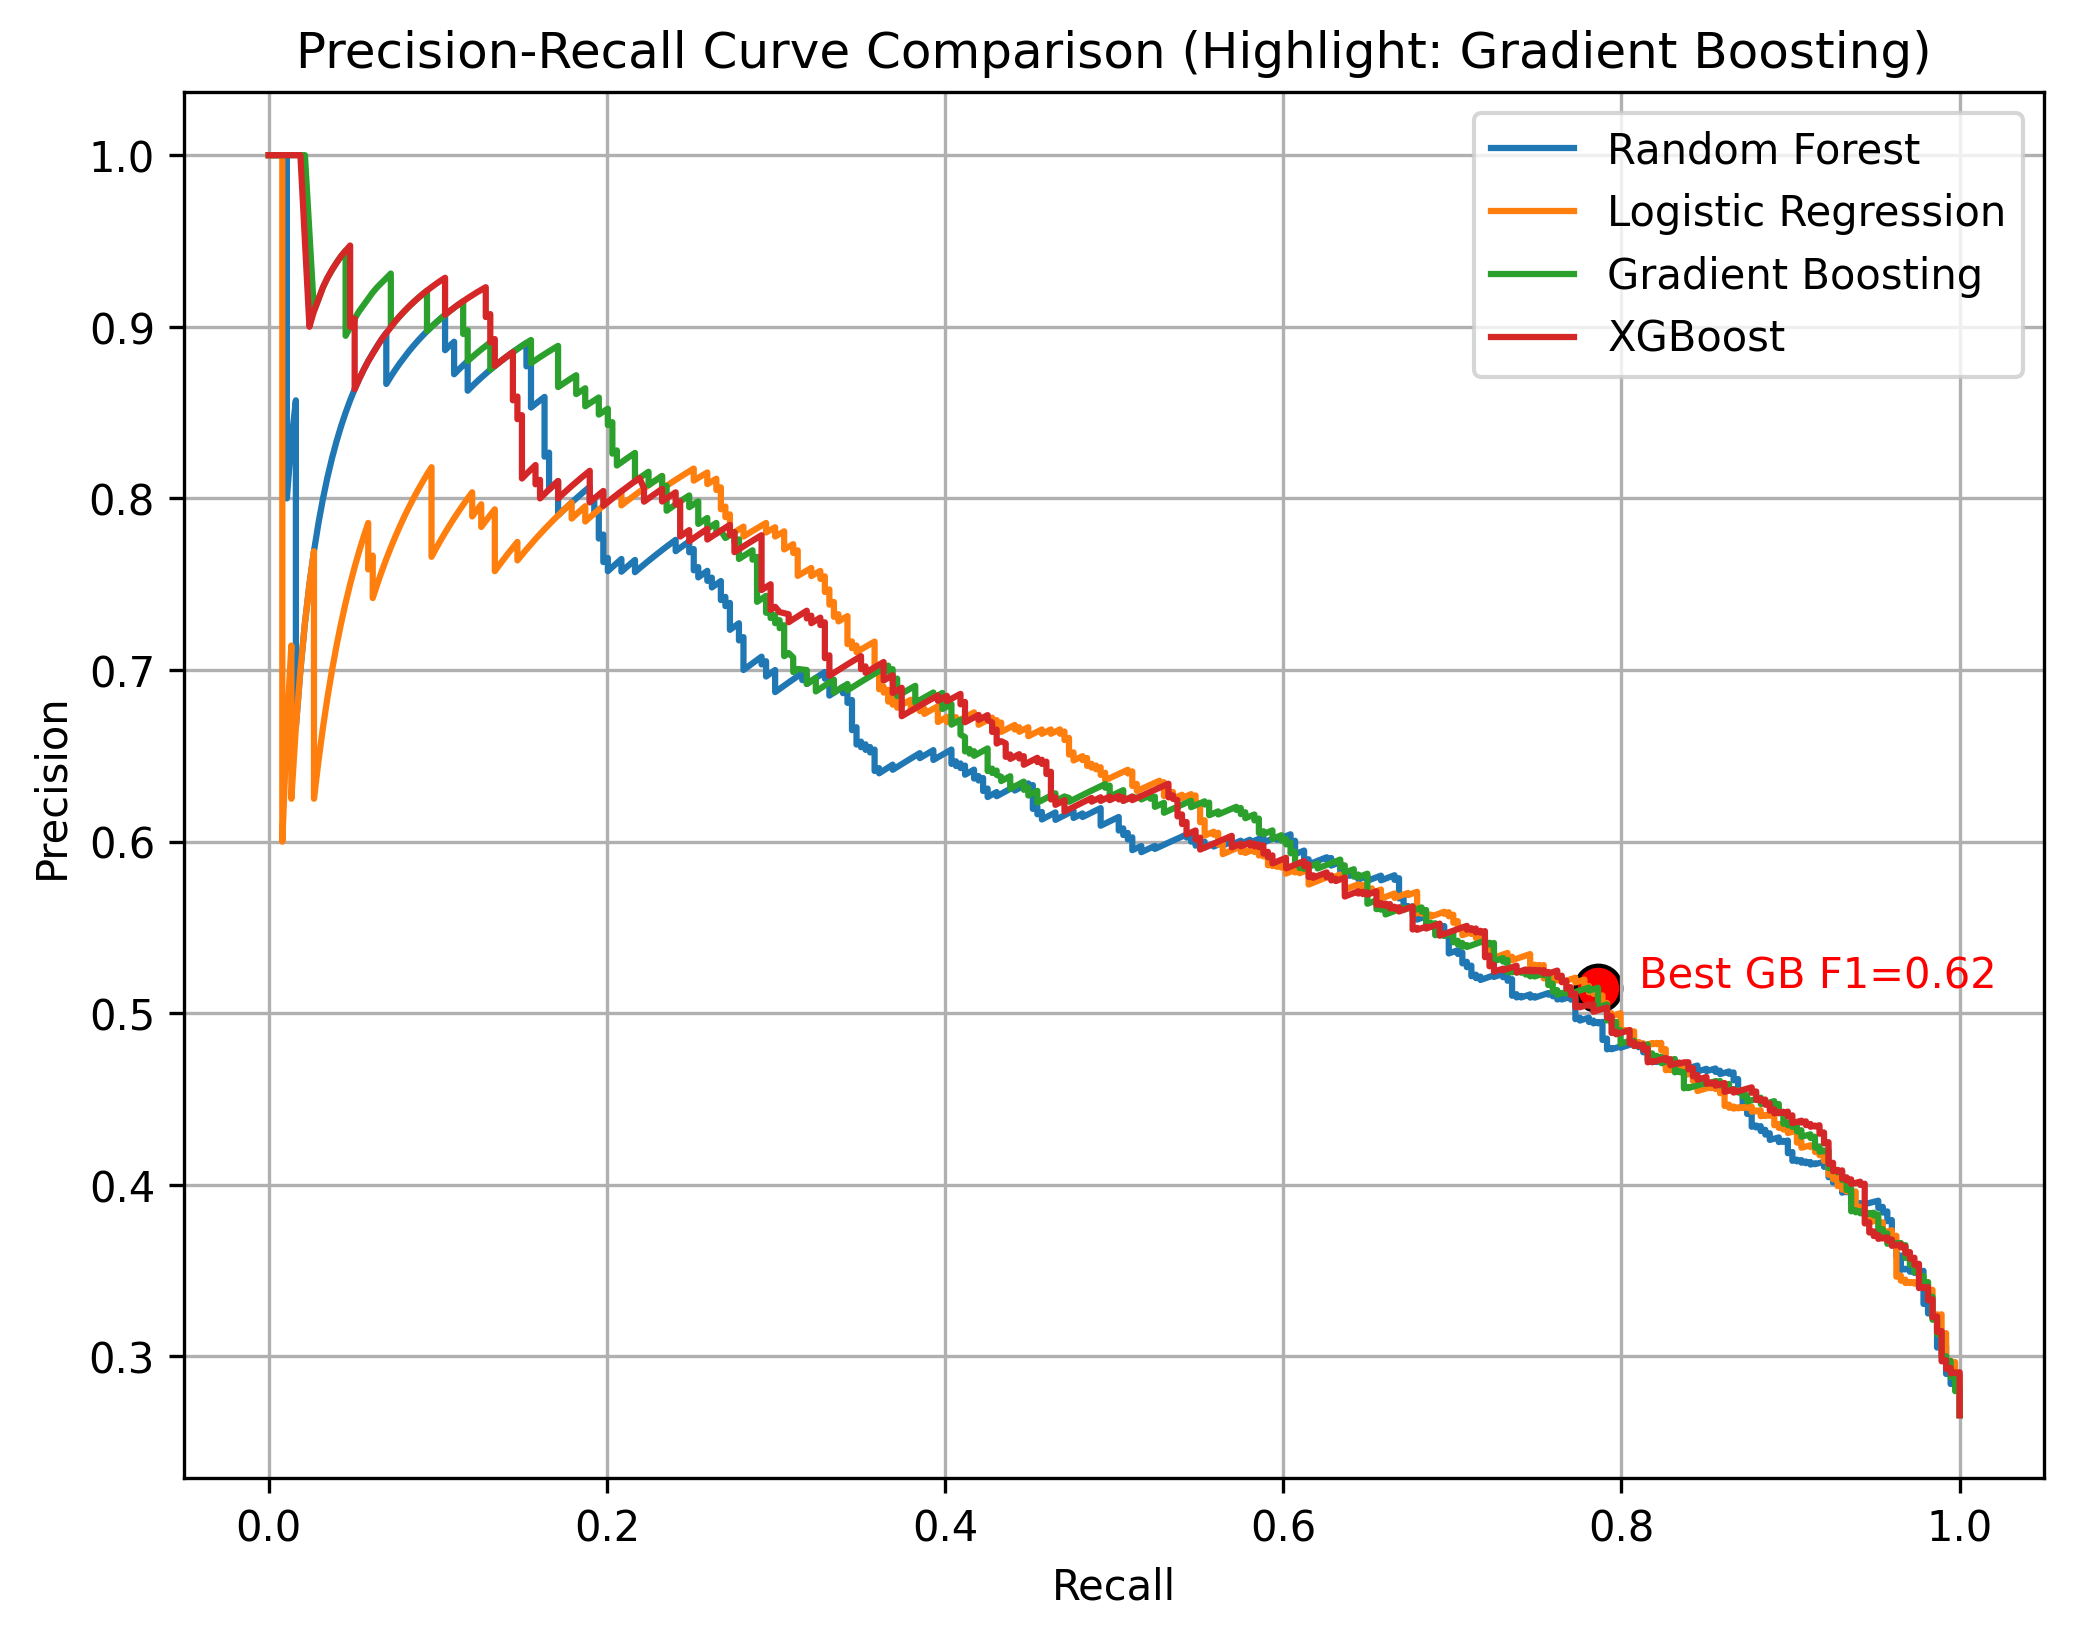
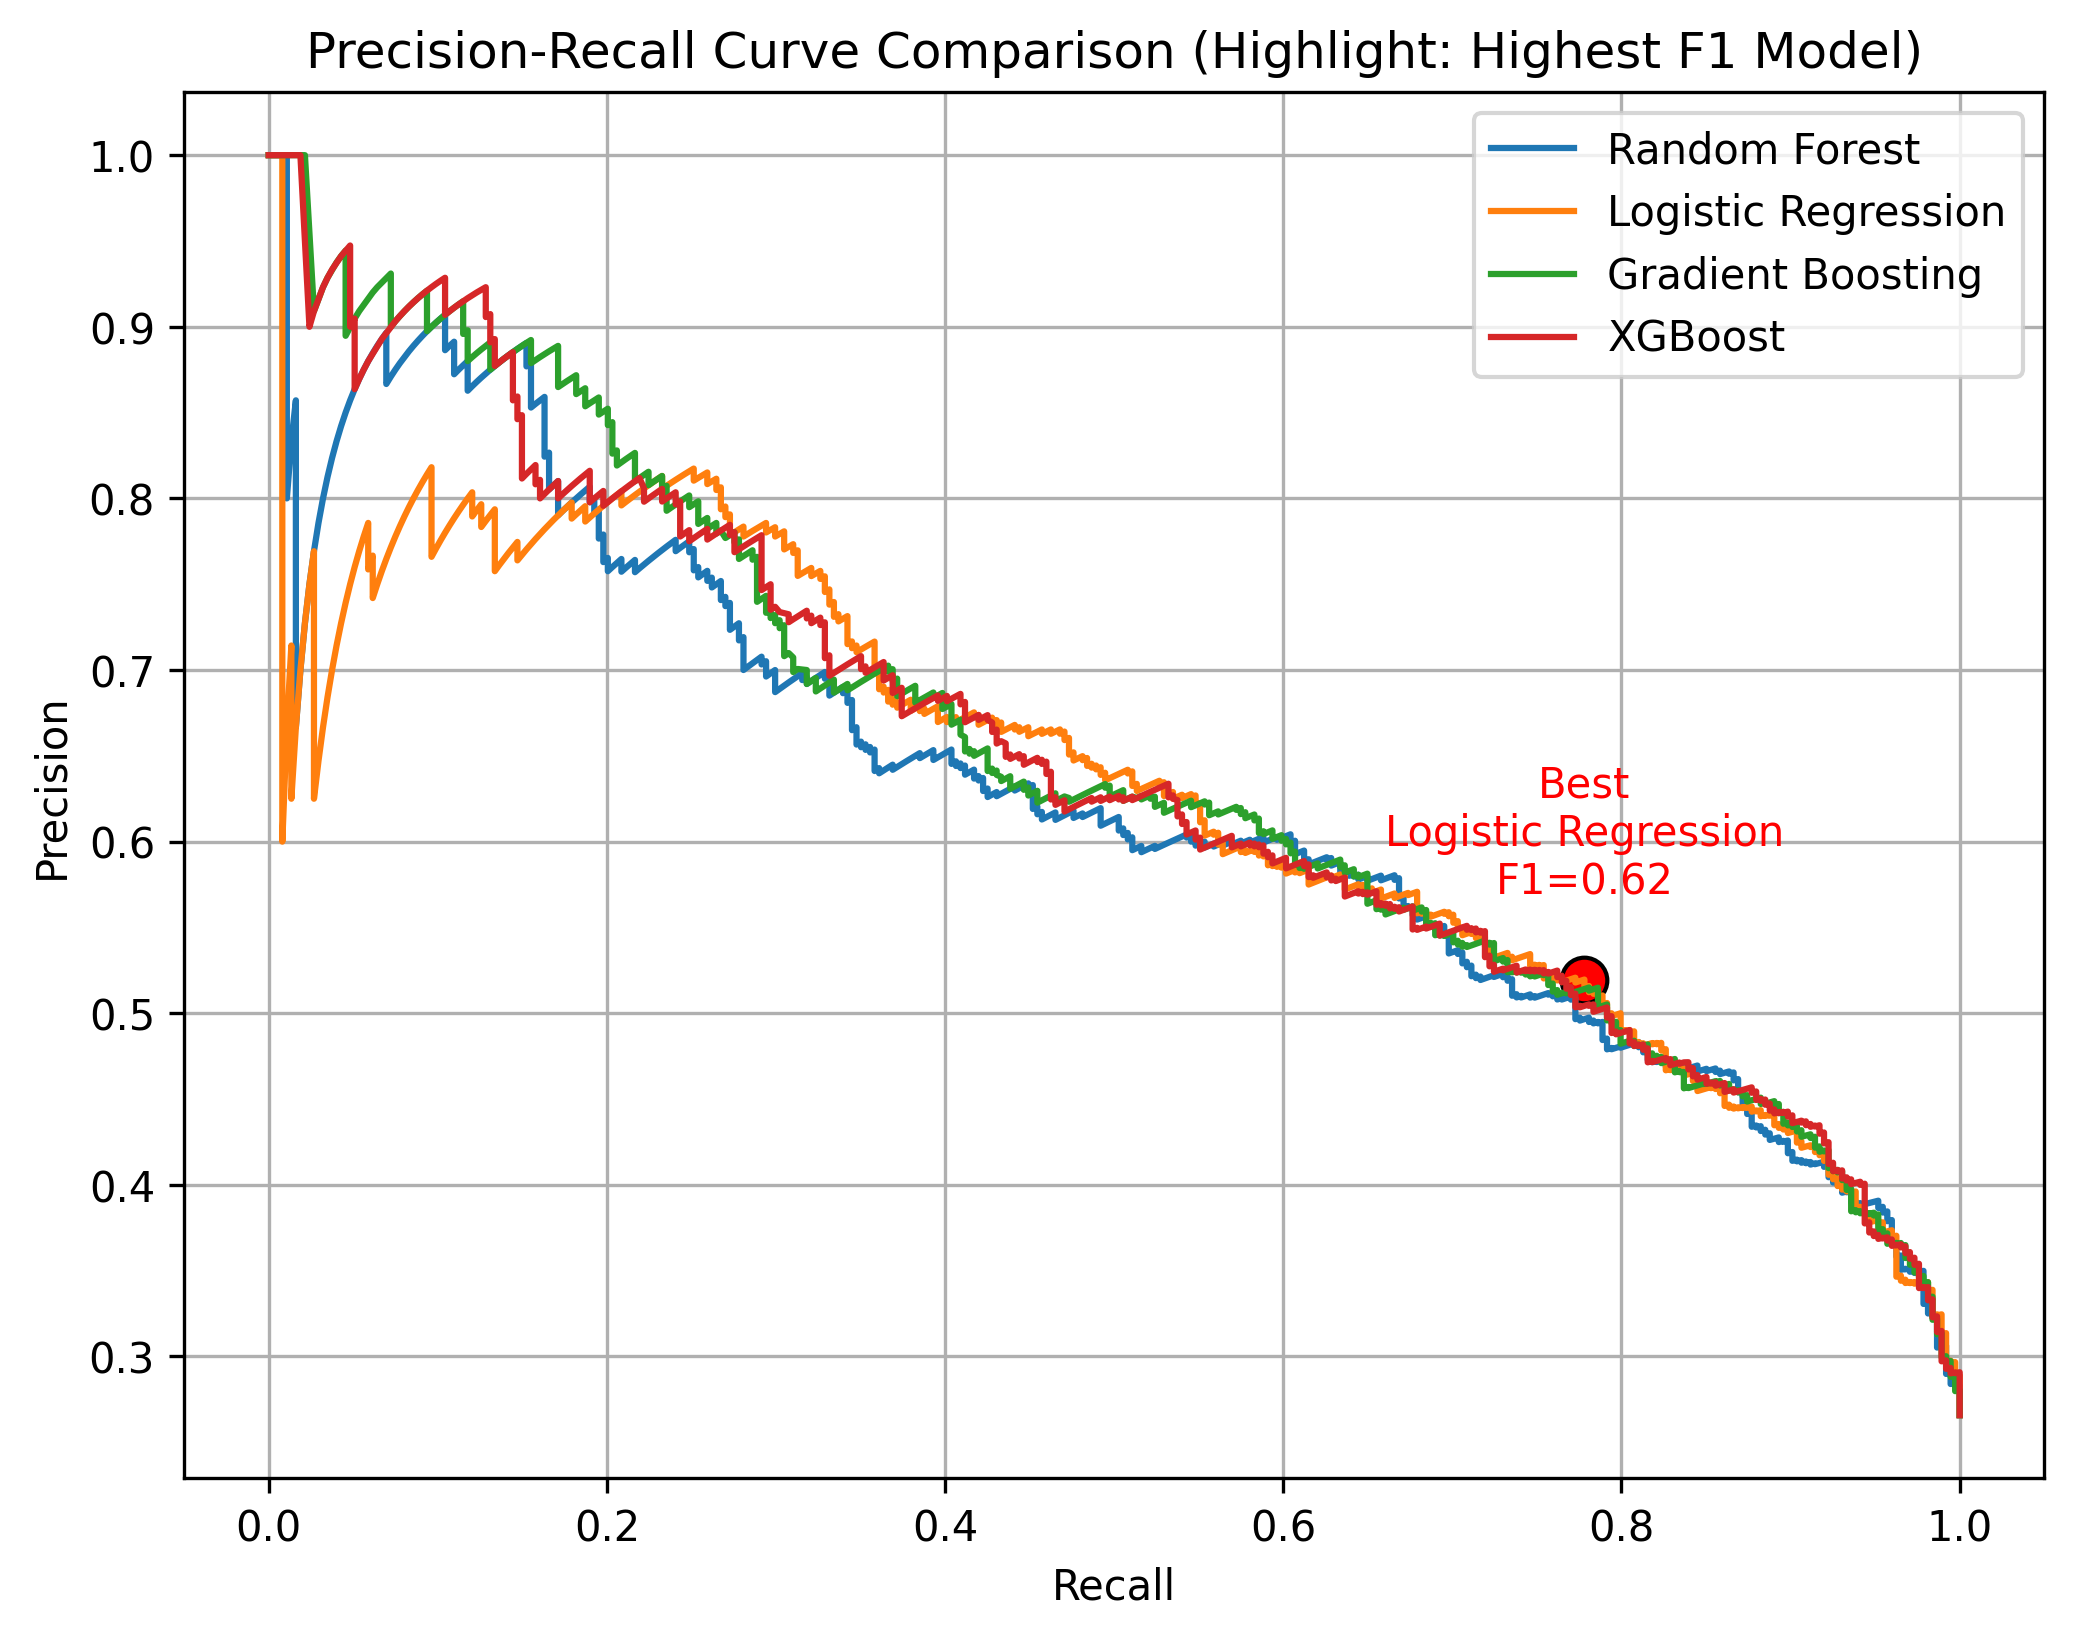
jup notebook update

Changed region(s): [[0.1543, 0.0, 0.9257, 0.0623], [0.6789, 0.467, 0.864, 0.5916], [0.7715, 0.5916, 0.9566, 0.6227]]

diff --git a/_pages/project-3.md b/_pages/project-3.md
@@ -27,7 +27,7 @@ This project applies supervised machine learning to predict customer churn for a
 
 <p style="font-size: 15px;">The dataset is imbalanced: ~73% of customers do not churn.</p>
 
-<img src="https://Ilse-hutten.github.io/my-portfolio/assets/images/churn_distribution.png" alt="Churn Distribution" style="width: 50%; border-radius: 8px; margin: 20px 0;"/>
+<img src="https://Ilse-hutten.github.io/my-portfolio/assets/images/churn_distribution.png" alt="Churn Distribution" style="width: 40%; border-radius: 8px; margin: 20px 0;"/>
 
 <p style="font-size: 15px; margin-top: 20px;">Key patterns observed across customer segments:</p>
 
@@ -48,7 +48,7 @@ This project applies supervised machine learning to predict customer churn for a
   <li>Month-to-month contracts have the highest churn (~40%).</li>
 </ul>
 
-<img src="https://Ilse-hutten.github.io/my-portfolio/assets/images/churn_rate_service_contract.png" style="width: 100%; border-radius: 8px;"/>
+<img src="https://Ilse-hutten.github.io/my-portfolio/assets/images/churn_rate_service_contract.png" style="width: 120%; border-radius: 8px;"/>
 
 <h3 style="font-size: 18px; color: #333;"> Preprocessing</h3>
 
@@ -77,6 +77,8 @@ This project applies supervised machine learning to predict customer churn for a
 </table>
 
 <img src="https://Ilse-hutten.github.io/my-portfolio/assets/images/roc_auc_across_models.png" alt="ROC AUC Comparison" style="width: 70%; border-radius: 8px; margin: 20px 0;"/>
+
+<img src="https://Ilse-hutten.github.io/my-portfolio/assets/images/precision_recall_curves.png" alt="ROC AUC Comparison" style="width: 70%; border-radius: 8px; margin: 20px 0;"/>
 
 <h3 style="font-size: 18px; color: #333;"> Feature Importance</h3>
 

diff --git a/_pages/projects.md b/_pages/projects.md
@@ -68,7 +68,7 @@ Here are some of my recent data science and machine learning projects:
   </div>
 
   <div class="project-card">
-    <<img src="{{ '/assets/images/pca_header.jpeg' | relative_url }}" alt="PCA Index Arbitrage">
+    <<img src="{{ '/assets/images/pca_header.webp' | relative_url }}" alt="PCA Index Arbitrage">
     <div class="project-card-content">
       <h3>Index Arbitrage using PCA</h3>
       <p>Used Principal Component Analysis to detect index mispricings and design a z-score based mean reversion strategy.</p>
